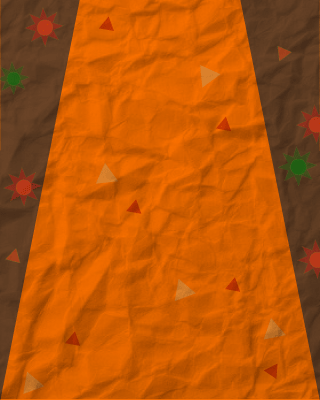
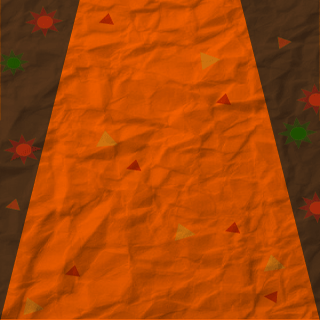
change height

diff --git a/game.js b/game.js
@@ -20,11 +20,11 @@ function startGameScene() {
     // 背景の生成	----- 廣山が追加 ----- 
     CreateBackground(scene);
 
-    load = new Sprite(SCREEN_WIDTH, 400);
+    load = new Sprite(SCREEN_WIDTH, SCREEN_HEIGHT - BACKGROUND_HEIGHT);
     load.image = game.assets[TEXNAME_ROAD]; // 画像を指定
     load.frame = 0;
     load.x = 0;
-    load.y = 80;
+    load.y = BACKGROUND_HEIGHT;
 
     // タッチしたときにクマを移動させる
     scene.addEventListener('touchstart', function(e){

diff --git a/kinoko.js b/kinoko.js
@@ -73,8 +73,8 @@ function addKinoko(scene) {
             this.y += 4; // y座標を増やす (落下)
             this.x += this.grad * 4;
             if (game.frame % 4 == 0) {
-              this.scaleX += 0.01;
-              this.scaleY += 0.01;
+              this.scaleX += 0.0125;
+              this.scaleY += 0.0125;
             }
         }
         break;

diff --git a/background.js b/background.js
@@ -7,7 +7,7 @@
 
 /*----- 背景 -----*/
 var BACKGROUND_WIDTH	= 1320;	    // 背景画像の幅
-var BACKGROUND_HEIGHT	= 80;	    // 背景画像の高さ
+var BACKGROUND_HEIGHT	= 160;	    // 背景画像の高さ
 var TEXNAME_BACKGROUND  = 'img/background.png'; // 背景
 
 //=========================================================

diff --git a/tree.js b/tree.js
@@ -41,8 +41,8 @@ function addTree(scene, left) {
 
 				// スケールを増加
 				if (game.frame % 4 == 0) {
-					this.scaleX += 0.01;
-					this.scaleY += 0.01;
+					this.scaleX += 0.0125;
+					this.scaleY += 0.0125;
 				}
 				break;
 
